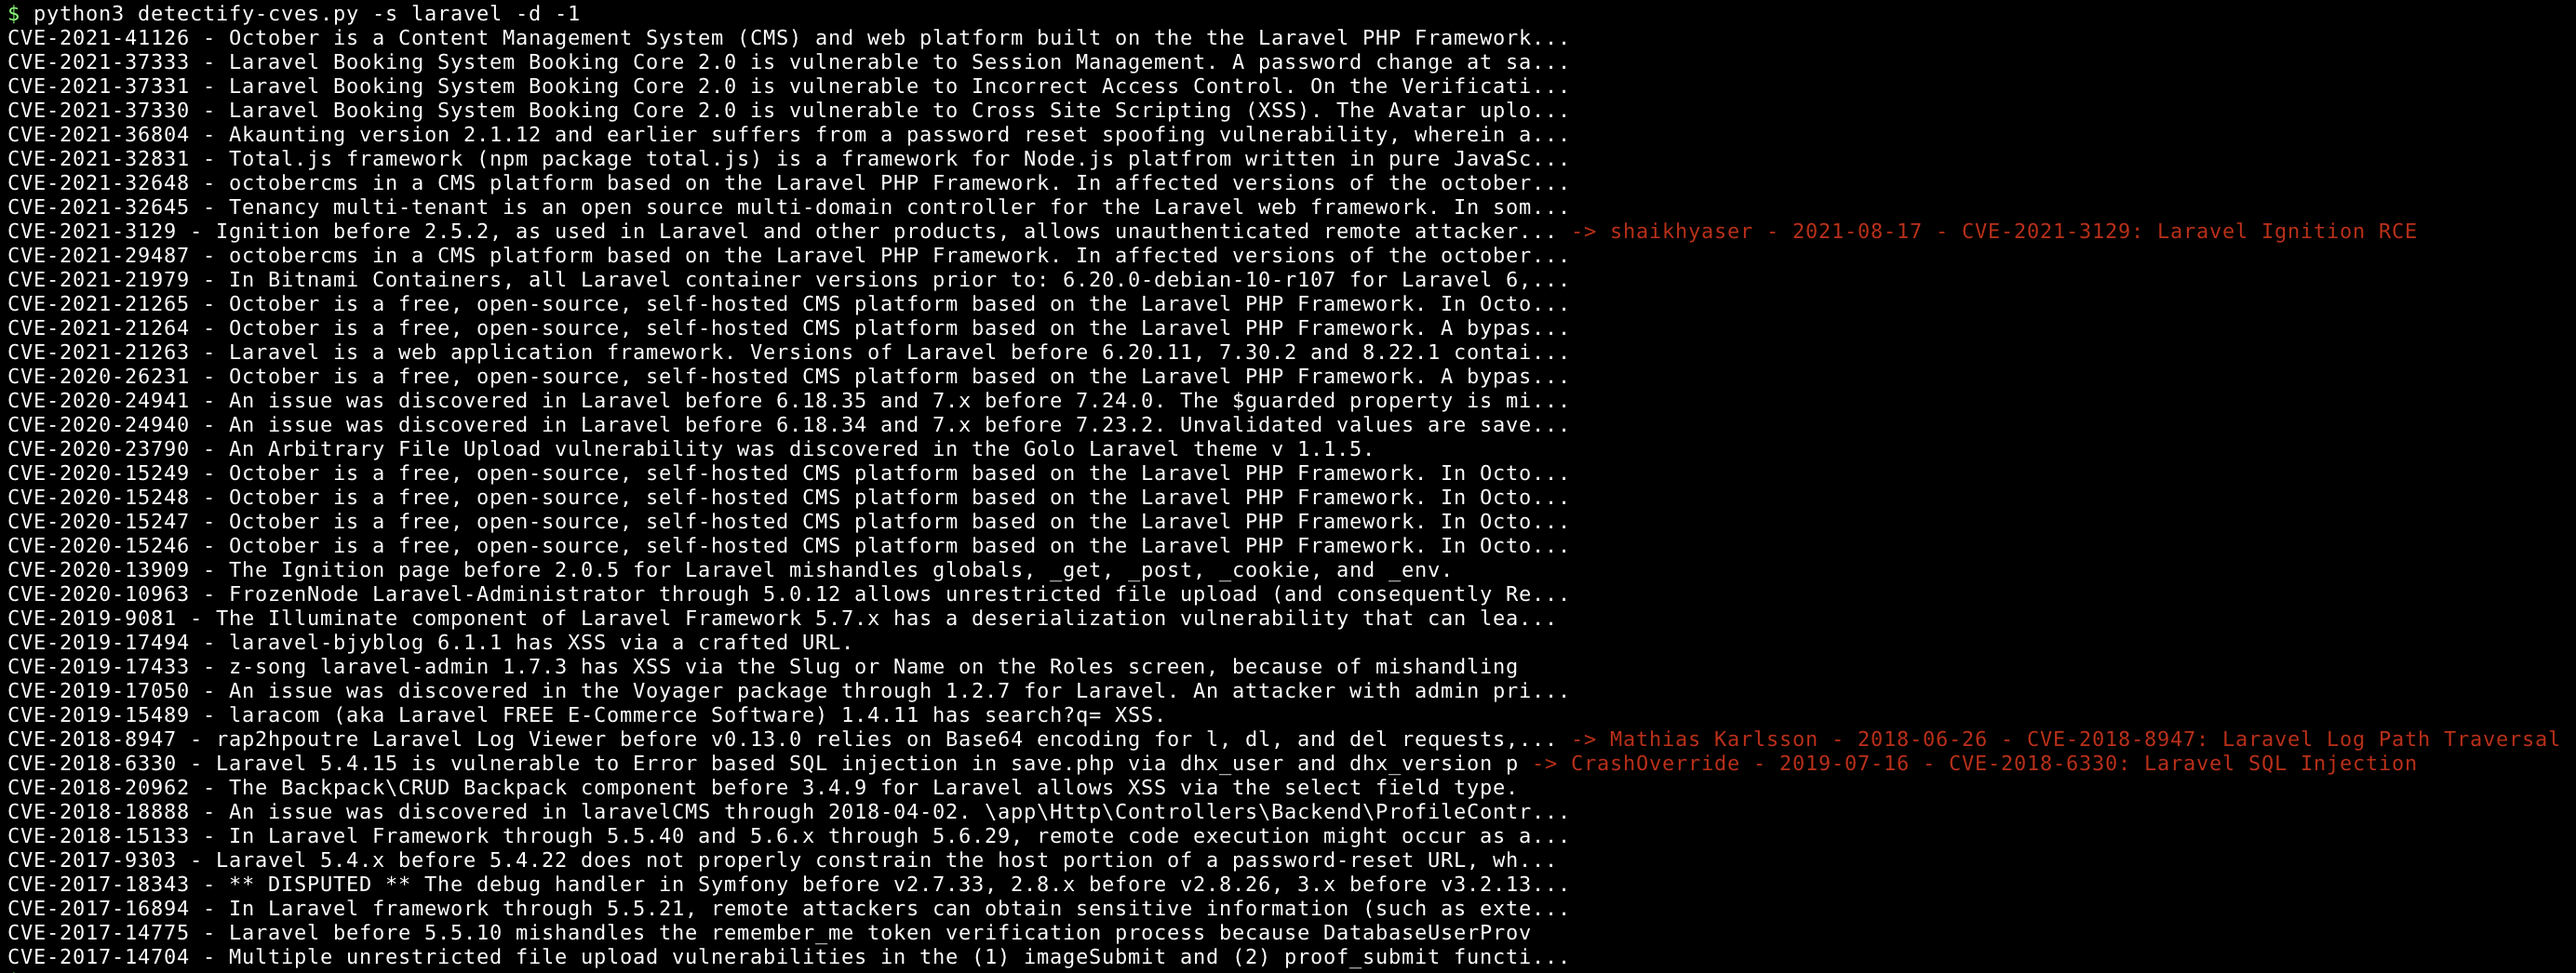
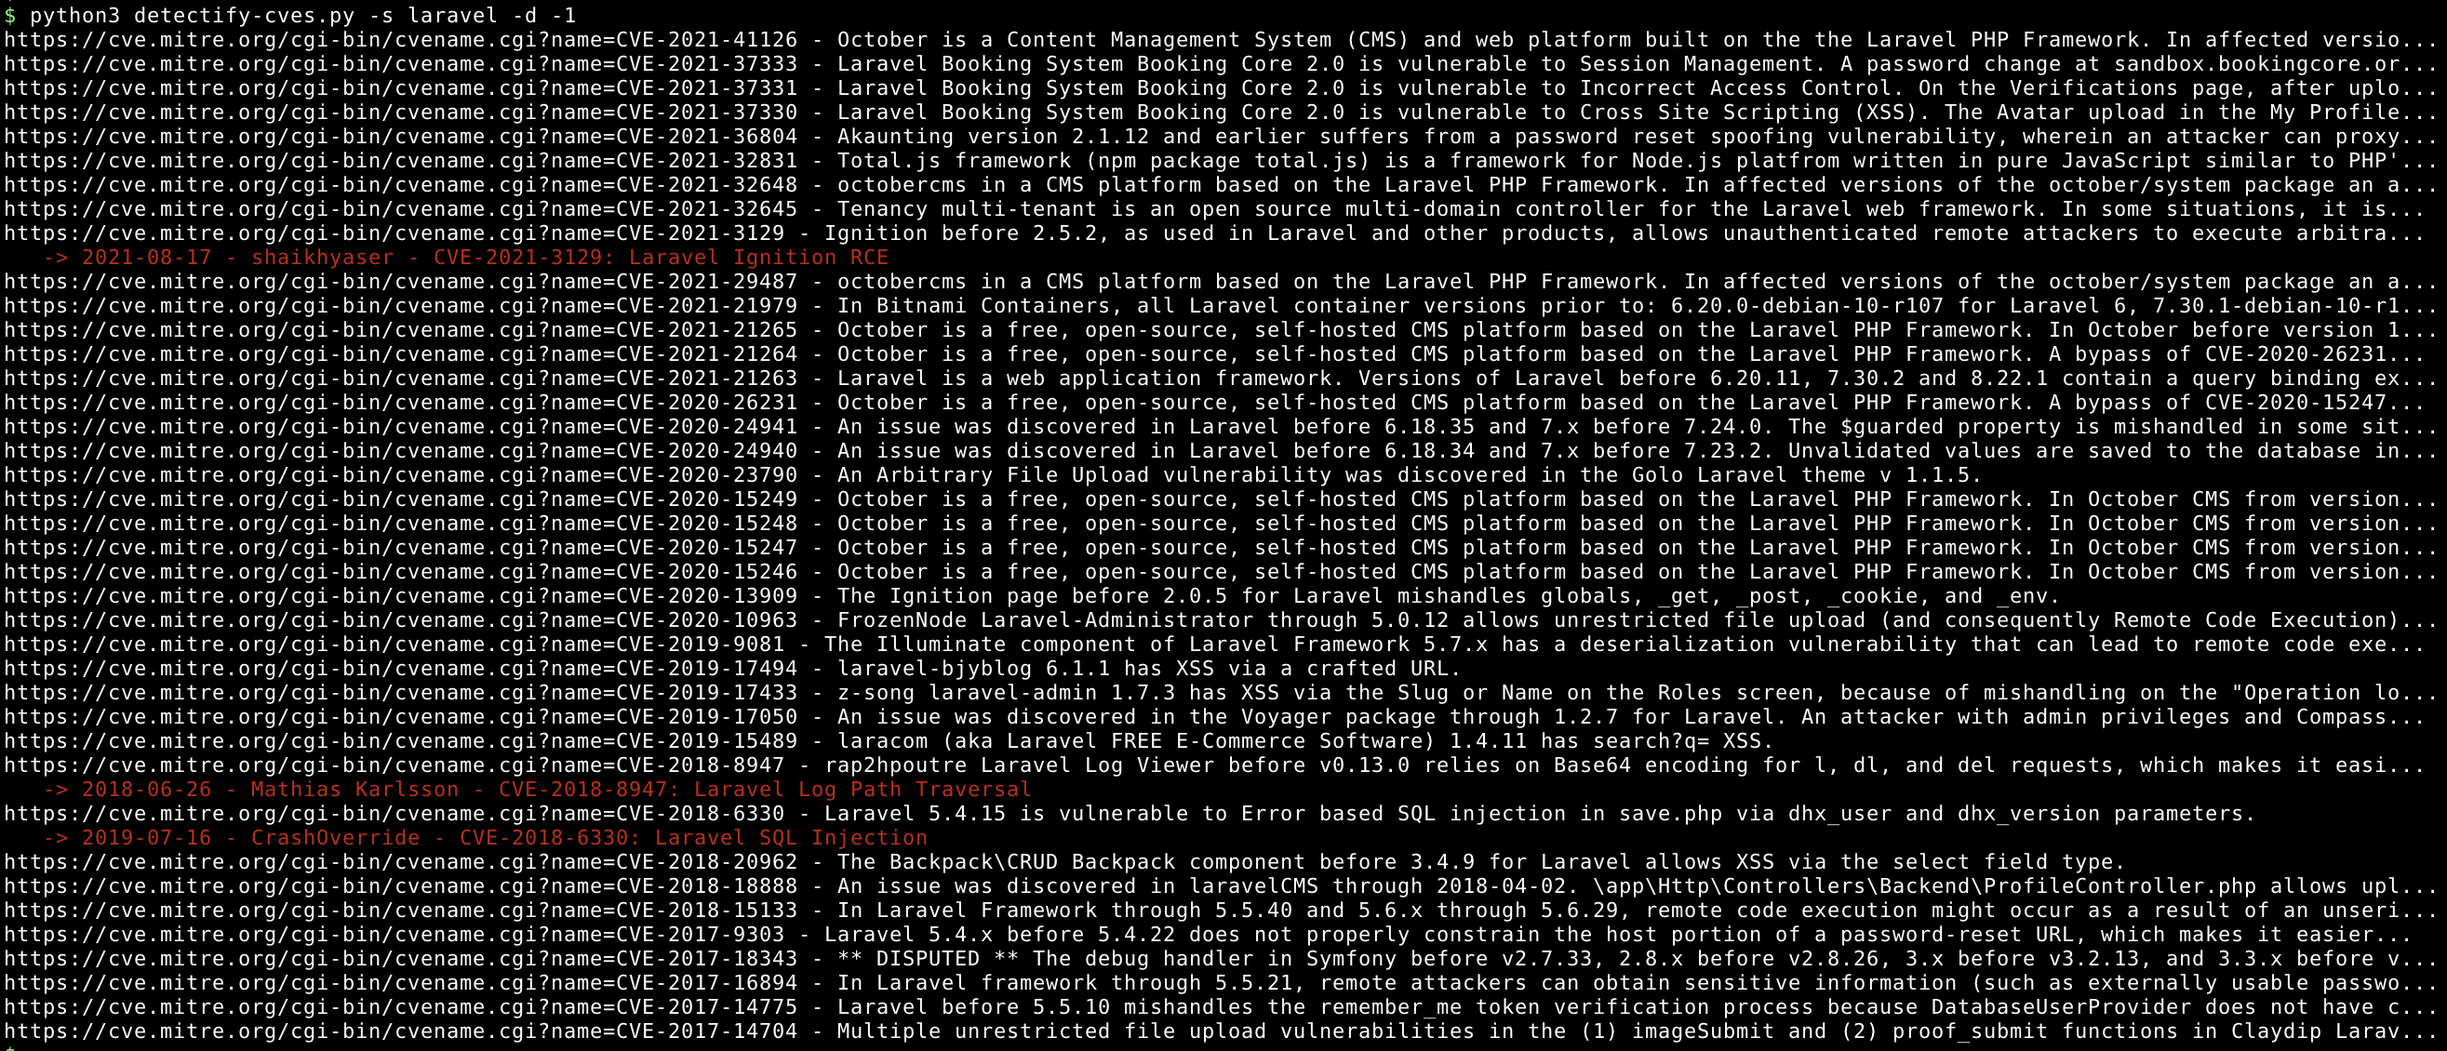
change output

Changed region(s): [[0.0, 0.0, 0.9977, 1.0]]

diff --git a/detectify-cves.py b/detectify-cves.py
@@ -54,12 +54,14 @@ with open('allitems.csv',encoding='utf8',errors='ignore') as csv_file:
         if "** RESERVED **" not in cve[2]:
             r = search_module( t_modules, cve, search )
             if r != 0:
-                output = cve[0]+" - "+cve[2][:100].strip()
+                # output = cve[0]+" - "+cve[2][:100].strip()
                 # output = "https://cve.mitre.org/cgi-bin/cvename.cgi?name="+cve[0]+" - "+cve[2][:100].strip()
-                if len(cve[2]) > 150:
+                output = "https://cve.mitre.org/cgi-bin/cvename.cgi?name="+cve[0]+" - "+cve[2][:120].strip()
+                if len(cve[2]) > 120:
                     output = output + "..."
                 if type(r) is list:
-                    output = output + colored(" -> %s - %s - %s" % (r[1],r[2],r[0][:100]),"red")
+                    output = output + "\n" + colored("   -> %s - %s - %s" % (r[2],r[1],r[0]),"red")
+                    # output = output + colored(" -> %s - %s - %s" % (r[1],r[2],r[0][:100]),"red")
                     # output = output + colored(" -> %s - %s - %s" % (r[2],r[1],r[0][:100].strip()),"red")
                 output = output + "\n"
 
